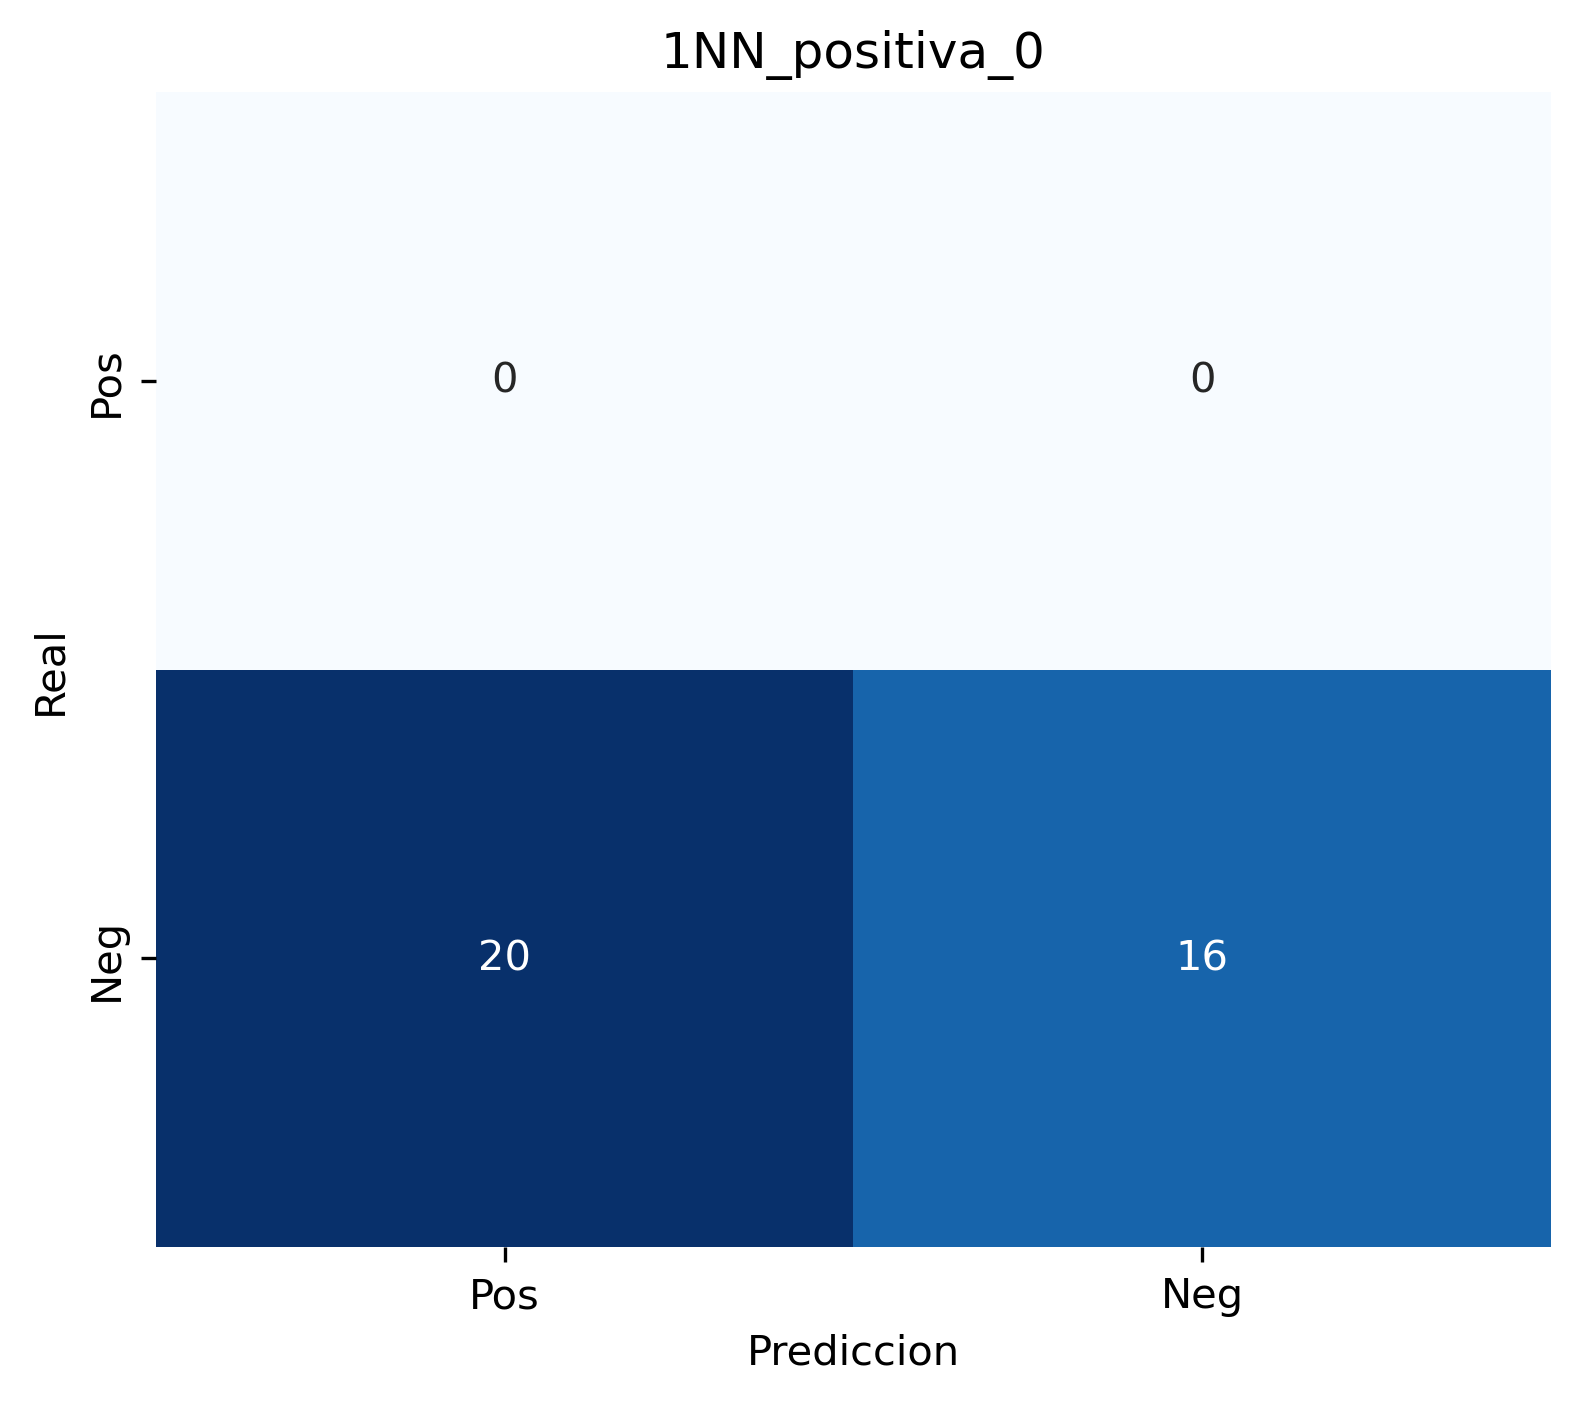
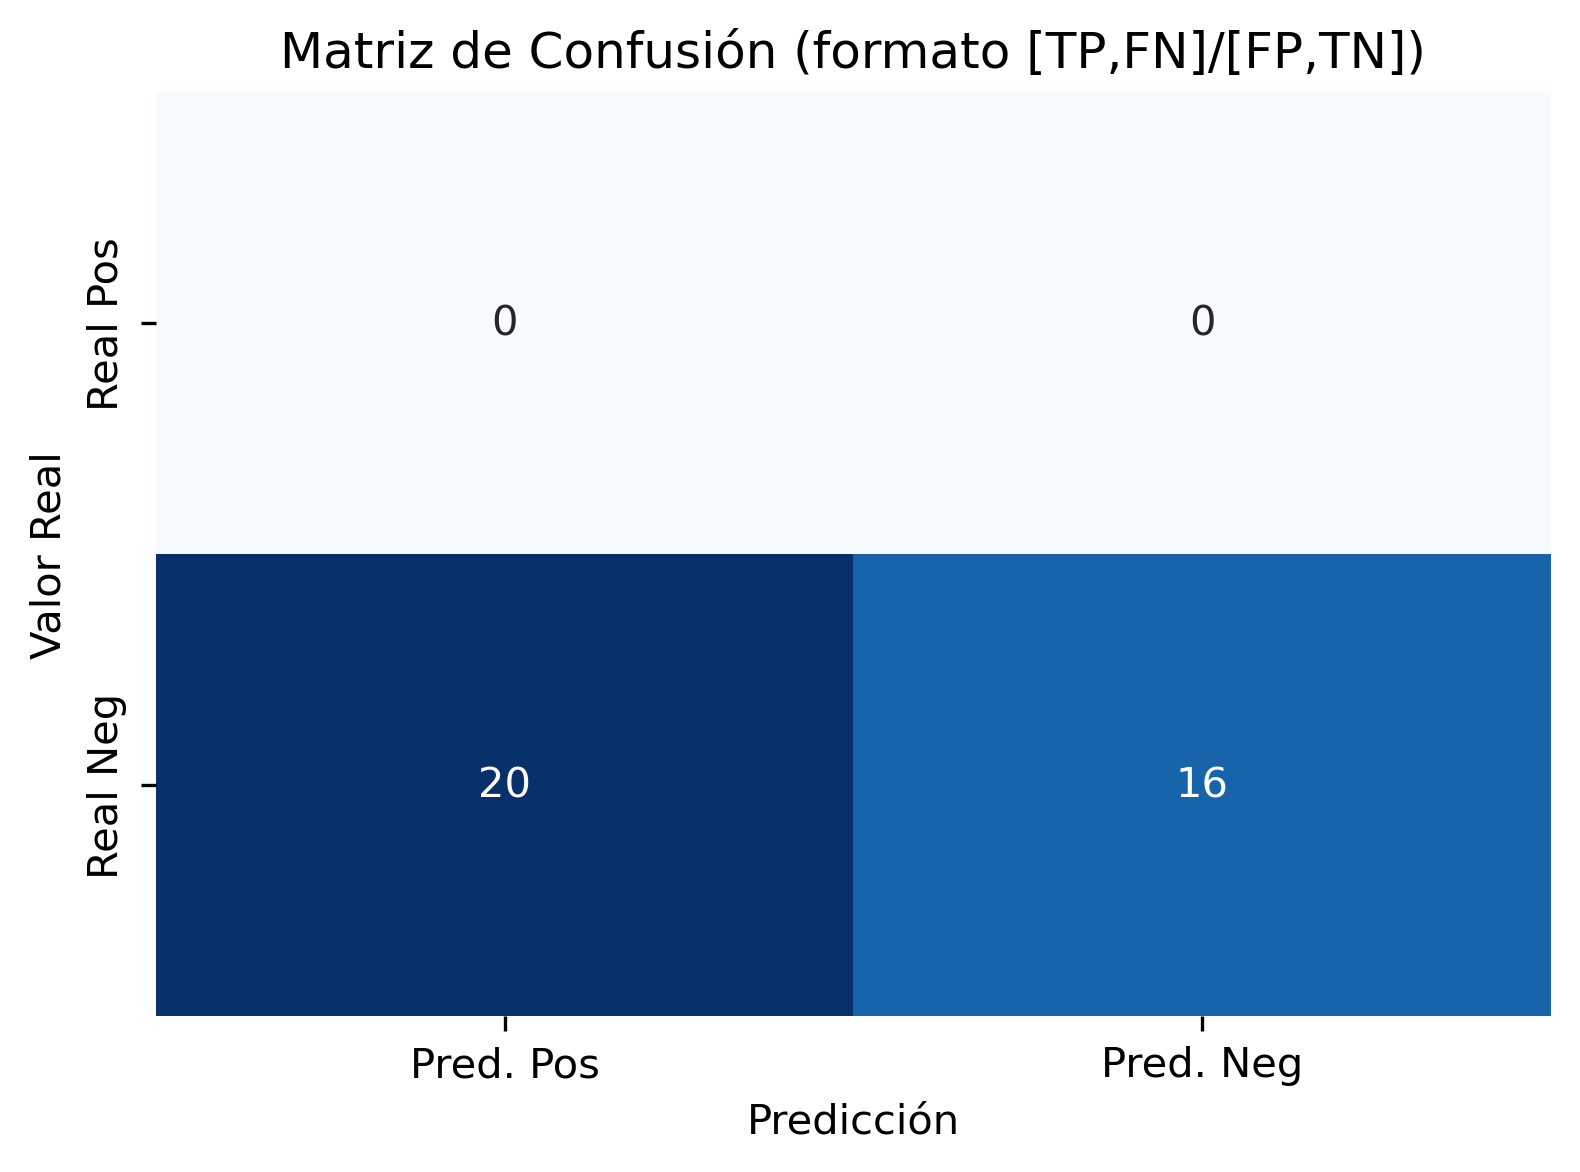
Ya sirve la funcion de las medidas de desempeño

diff --git a/Tarea2 -  Patologias en medidas de desempeño/proyecto/utils/matriz.py b/Tarea2 -  Patologias en medidas de desempeño/proyecto/utils/matriz.py
@@ -1,32 +1,8 @@
-import pandas as pd
-from sklearn.metrics import confusion_matrix
+import numpy as np
 import matplotlib.pyplot as plt
 import seaborn as sns
-import os
-from pathlib import Path
-import numpy as np
 
-
-def guarda_matriz(cm, algoritmo, clase_positiva):
-    '''
-    Utiliza las prediciónes para guardar una imagen de las matrices de confusión
-    '''
-
-    BASE_DIR = Path(__file__).resolve().parent.parent.parent
-    nombre_archivo = f'{algoritmo}_positiva_{clase_positiva}'
-    ruta= os.path.join(BASE_DIR, 'imagenes', nombre_archivo)
-
-    cm_vis = [[cm[1,1], cm[1,0]], [cm[0,1], cm[0,0]]]
-
-    plt.figure(figsize=(6,5))
-    sns.heatmap(cm_vis, annot=True, fmt='d', cmap='Blues', xticklabels=['Pos', 'Neg'], yticklabels=['Pos', 'Neg'], cbar=False)
-
-    plt.xlabel('Prediccion')
-    plt.ylabel('Real')
-    plt.title(nombre_archivo)
-    plt.savefig(ruta, dpi=300, bbox_inches='tight')
-
-def evaluar_matriz_confusion(y_test, y_pred, etiquetas, algoritmo, clase_positiva):
+def evaluar_matriz_confusion(conf_matrix):
     """
     Recibe una matriz de confusión 2x2 y calcula medidas de desempeño junto con la gráfica.
 
@@ -34,12 +10,6 @@ def evaluar_matriz_confusion(y_test, y_pred, etiquetas, algoritmo, clase_positiv
                  [[TN, FP],
                   [FN, TP]]
     """
-
-    BASE_DIR = Path(__file__).resolve().parent.parent.parent
-    nombre_archivo = f'{algoritmo}_positiva_{clase_positiva}'
-    ruta= os.path.join(BASE_DIR, 'imagenes', nombre_archivo)
-
-    conf_matrix = confusion_matrix(y_test, y_pred, labels = etiquetas)
     
     TN, FP, FN, TP = conf_matrix[0,0], conf_matrix[0,1], conf_matrix[1,0], conf_matrix[1,1]
 
@@ -73,14 +43,15 @@ def evaluar_matriz_confusion(y_test, y_pred, etiquetas, algoritmo, clase_positiv
 
 
     plt.figure(figsize=(6,4))
-    sns.heatmap(conf_custom, annot=True, fmt="d", cmap="Blues", xticklabels=["Pred. Pos", "Pred. Neg"], yticklabels=["Real Pos", "Real Neg"], cbar = False)
+    sns.heatmap(conf_custom, annot=True, fmt="d", cmap="Blues",
+                xticklabels=["Pred. Pos", "Pred. Neg"],   
+                yticklabels=["Real Pos", "Real Neg"])
     plt.title("Matriz de Confusión (formato [TP,FN]/[FP,TN])")
     plt.ylabel("Valor Real")
     plt.xlabel("Predicción")
-    plt.savefig(ruta, dpi=300, bbox_inches='tight')
     plt.show()
 
-    '''# Diccionario para usar después si es necesario
+    # Diccionario para usar después si es necesario
     metricas = {
         "Accuracy": accuracy,
         "Error Rate": error_rate,
@@ -91,4 +62,10 @@ def evaluar_matriz_confusion(y_test, y_pred, etiquetas, algoritmo, clase_positiv
         "F1-Score": f1_score,
         "MCC": mcc
     }
-    return metricas'''
+    return metricas
+
+# Configurar matriz de confusión
+conf_matrix = np.array([[39, 3],   # TN, FP
+                        [4, 11]])  # FN, TP
+
+resultados = evaluar_matriz_confusion(conf_matrix)

diff --git a/Tarea2 -  Patologias en medidas de desempeño/main.py b/Tarea2 -  Patologias en medidas de desempeño/main.py
@@ -8,15 +8,21 @@ if BASE_DIR not in sys.path:
 
 from proyecto.utils.estandarizar_df import estandarizar_df
 from proyecto.utils.modelos import entrenar_modelo, predecir_modelo
-from proyecto.utils.medidas_desempeno import calcula_medidas
 from proyecto.utils.ajustar_clases import ajustar_clases
+from proyecto.utils.medidas_desempeno import evaluar_matriz_confusion
 
 train_path = os.path.join(BASE_DIR, "datasets", "Train.xlsx")
 test_path = os.path.join(BASE_DIR, "datasets", "Test.xlsx")
 
 nombre_algoritmos = ['1NN']
 df_resultados = []
-clase_positiva = 0
+positiva = 0
+
+if positiva == 1:
+    etiquetas = [1,0]
+else:
+    etiquetas = [0,1]
+
 
 df_train = pd.read_excel(train_path)
 df_test = pd.read_excel(test_path)
@@ -39,9 +45,5 @@ for algoritmo in nombre_algoritmos:
     modelo = entrenar_modelo(algoritmo, X_train, Y_train)
     Y_pred = predecir_modelo(modelo, X_test)
 
-    df_medidas = calcula_medidas(Y_test, Y_pred, clase_positiva, algoritmo)
-    medidas.append(df_medidas)
+    evaluar_matriz_confusion(Y_test, Y_pred, etiquetas, algoritmo, positiva)
 
-
-
-print(medidas)
